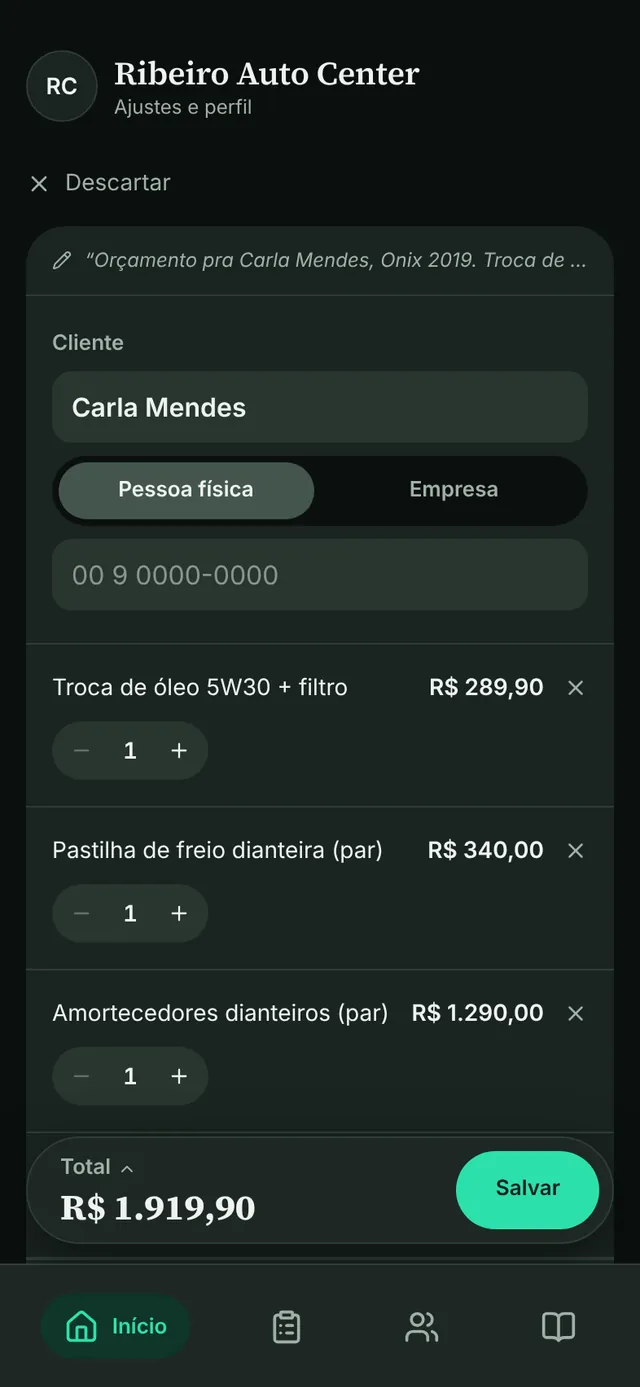
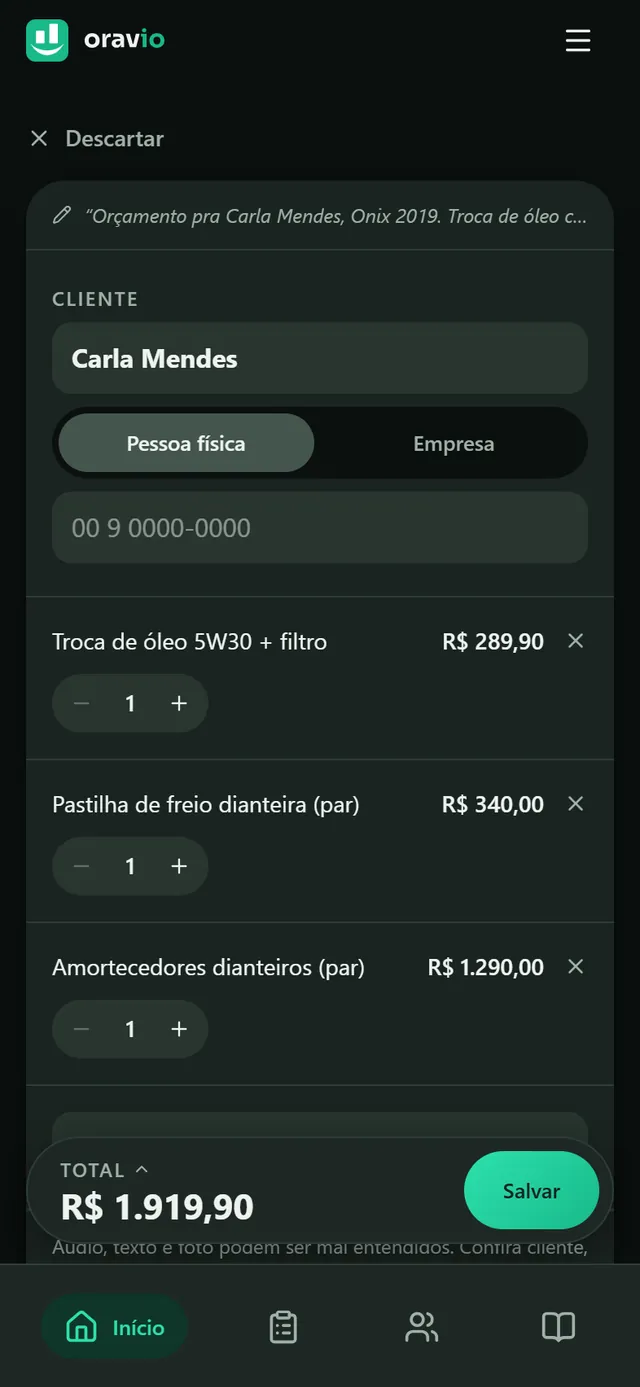
Volta a landing para antes dos prints de 01/11
Os prints novos (Início com a marca do negócio) ficaram sem acabamento no
aparelho: cartões cortados no topo e a câmera da moldura encostando no nome.
Volta ao estado de dccb220 até o polimento ser feito com calma.

Claude-Session: https://claude.ai/code/session_01R9HaANXDx3m32iE2aZMV2n

diff --git a/estilo.css b/estilo.css
@@ -282,20 +282,20 @@
   .tela::after{content:"";position:absolute;inset:0;z-index:9;border-radius:inherit;box-shadow:inset 0 0 0 1px var(--contorno-img);pointer-events:none}
   .tela img{display:block;width:100%;height:auto;border-radius:0;outline:0}
   .camada{position:absolute;left:0;top:0;width:100%}
-  .laco-grav{top:calc(576.39 * var(--pt))}
+  .laco-grav{top:calc(575.58 * var(--pt))}
   /* O relógio da gravação sai do print (a captura o apaga) e conta aqui por cima. */
-  .laco-relogio{position:absolute;left:calc(57 * var(--pt));top:calc(714.89 * var(--pt));font:500 calc(14 * var(--pt))/calc(19 * var(--pt)) var(--font-sans);color:var(--rec);font-variant-numeric:tabular-nums}
+  .laco-relogio{position:absolute;left:calc(57 * var(--pt));top:calc(714.08 * var(--pt));font:500 calc(14 * var(--pt))/calc(19 * var(--pt)) var(--font-sans);color:var(--rec);font-variant-numeric:tabular-nums}
   /* Cada item é uma janela de 100 pontos sobre a Confira inteira, na altura da linha dele. */
   .laco-item{position:absolute;left:0;width:100%;top:calc(var(--y) * var(--pt));height:calc(100 * var(--pt));overflow:hidden}
   .laco-item picture{position:absolute;left:0;width:100%;top:calc(var(--y) * var(--pt) * -1)}
-  .laco-total{position:absolute;left:calc(37 * var(--pt));top:calc(727.55 * var(--pt));font:700 calc(22 * var(--pt))/calc(26.4 * var(--pt)) var(--font-sans);letter-spacing:-.01em;color:var(--text);font-variant-numeric:tabular-nums;white-space:nowrap}
+  .laco-total{position:absolute;left:calc(37 * var(--pt));top:calc(726.8 * var(--pt));font:700 calc(22 * var(--pt))/calc(26.4 * var(--pt)) var(--font-sans);letter-spacing:-.01em;color:var(--text);font-variant-numeric:tabular-nums;white-space:nowrap}
   /* O dedo: um disco translúcido, como o "mostrar toques" do Android. */
   .laco-toque{position:absolute;width:calc(46 * var(--pt));height:calc(46 * var(--pt));margin:calc(-23 * var(--pt)) 0 0 calc(-23 * var(--pt));border-radius:50%;background:color-mix(in oklab,var(--text) 20%,transparent);box-shadow:0 0 0 calc(1.5 * var(--pt)) color-mix(in oklab,var(--bg) 65%,transparent)}
-  .laco-toque-mic{left:calc(333 * var(--pt));top:calc(724.39 * var(--pt))}
+  .laco-toque-mic{left:calc(333 * var(--pt));top:calc(723.6 * var(--pt))}
   .laco-toque-salvar{left:calc(326.4 * var(--pt));top:calc(731 * var(--pt))}
   /* O aviso tem o desenho da "boa notícia" da Início do app (components/inicio-mesa.tsx) e desce
      como notificação. Tudo em --pt: é parte da tela, cresce e encolhe com ela. */
-  .laco-aviso{position:absolute;left:calc(12 * var(--pt));right:calc(12 * var(--pt));top:calc(82 * var(--pt));display:flex;align-items:center;gap:calc(12 * var(--pt));padding:calc(12 * var(--pt)) calc(16 * var(--pt)) calc(12 * var(--pt)) calc(14 * var(--pt));background:var(--superficie);border:1px solid var(--line-suave);border-radius:calc(24 * var(--pt));box-shadow:var(--sombra-aviso);font-family:var(--font-sans);text-align:left}
+  .laco-aviso{position:absolute;left:calc(12 * var(--pt));right:calc(12 * var(--pt));top:calc(54 * var(--pt));display:flex;align-items:center;gap:calc(12 * var(--pt));padding:calc(12 * var(--pt)) calc(16 * var(--pt)) calc(12 * var(--pt)) calc(14 * var(--pt));background:var(--superficie);border:1px solid var(--line-suave);border-radius:calc(24 * var(--pt));box-shadow:var(--sombra-aviso);font-family:var(--font-sans);text-align:left}
   .laco-aviso .selo{flex:none;width:calc(36 * var(--pt));height:calc(36 * var(--pt));border-radius:50%;background:var(--green);color:var(--on-green);display:flex;align-items:center;justify-content:center}
   .laco-aviso .selo svg{width:58%;height:58%}
   .laco-aviso .selo path{stroke-dasharray:24;stroke-dashoffset:24}

diff --git a/index.html b/index.html
@@ -17,7 +17,7 @@
 <meta property="og:type" content="website">
 <meta property="og:locale" content="pt_BR">
 <meta property="og:site_name" content="Oravio">
-<meta property="og:image" content="https://oravio.com.br/og-oravio.jpg?v=3">
+<meta property="og:image" content="https://oravio.com.br/og-oravio.jpg?v=2">
 <meta property="og:image:type" content="image/jpeg">
 <meta property="og:image:width" content="1200">
 <meta property="og:image:height" content="630">
@@ -151,9 +151,9 @@
               <img data-src="laco-confira-claro.webp" width="640" height="1387" decoding="async" alt="">
             </picture>
             <!-- Os três itens: recortes da MESMA Confira inteira do passo 2 (um download só). -->
-            <div class="laco-item i1" style="--y:396"><picture><source media="(prefers-color-scheme: dark)" data-srcset="tela-conferir-escuro.webp"><img data-src="tela-conferir-claro.webp" width="640" height="1387" decoding="async" alt=""></picture></div>
-            <div class="laco-item i2" style="--y:496"><picture><source media="(prefers-color-scheme: dark)" data-srcset="tela-conferir-escuro.webp"><img data-src="tela-conferir-claro.webp" width="640" height="1387" decoding="async" alt=""></picture></div>
-            <div class="laco-item i3" style="--y:596"><picture><source media="(prefers-color-scheme: dark)" data-srcset="tela-conferir-escuro.webp"><img data-src="tela-conferir-claro.webp" width="640" height="1387" decoding="async" alt=""></picture></div>
+            <div class="laco-item i1" style="--y:366.5"><picture><source media="(prefers-color-scheme: dark)" data-srcset="tela-conferir-escuro.webp"><img data-src="tela-conferir-claro.webp" width="640" height="1387" decoding="async" alt=""></picture></div>
+            <div class="laco-item i2" style="--y:466.5"><picture><source media="(prefers-color-scheme: dark)" data-srcset="tela-conferir-escuro.webp"><img data-src="tela-conferir-claro.webp" width="640" height="1387" decoding="async" alt=""></picture></div>
+            <div class="laco-item i3" style="--y:566.5"><picture><source media="(prefers-color-scheme: dark)" data-srcset="tela-conferir-escuro.webp"><img data-src="tela-conferir-claro.webp" width="640" height="1387" decoding="async" alt=""></picture></div>
             <span class="laco-total">R$ 1.919,90</span>
             <span class="laco-toque laco-toque-mic"></span>
             <span class="laco-toque laco-toque-salvar"></span>
